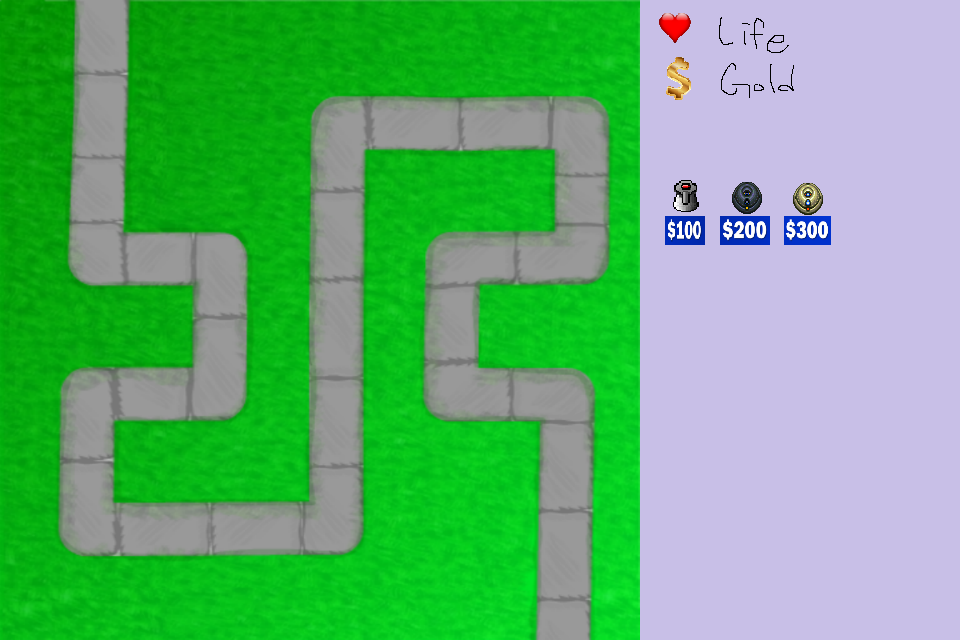
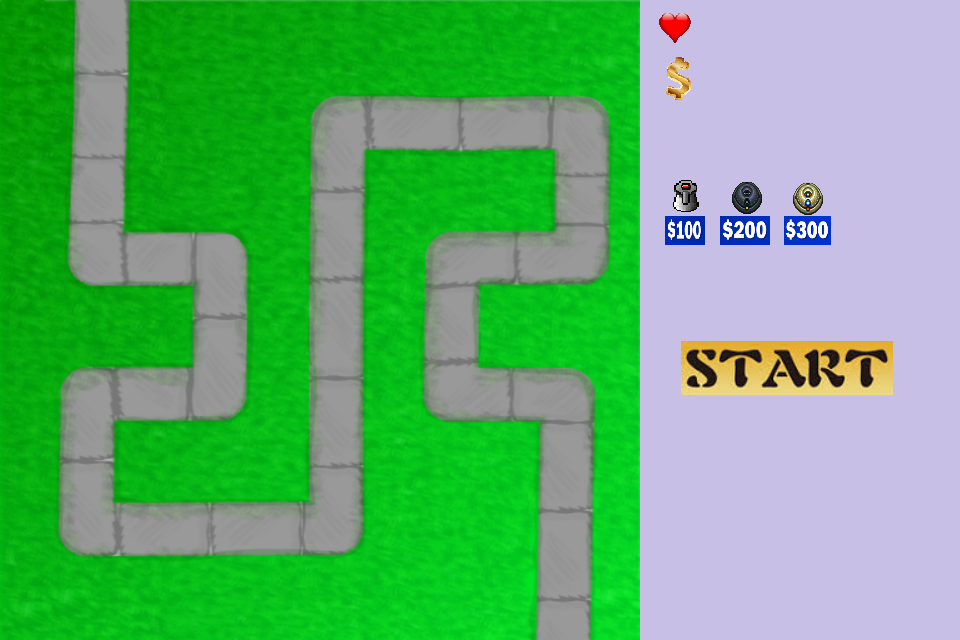
타워 23

Changed region(s): [[0.6875, 0.5312, 0.9375, 0.625], [0.75, 0.125, 0.7812, 0.1562]]

diff --git a/Drill/project/main_state.py b/Drill/project/main_state.py
@@ -10,7 +10,7 @@ import high_grade_pause_state
 
 name = "MainState"
 
-RUN_SPEED = 50
+RUN_SPEED = 150
 
 enemy1 = [None for i in range(0, 20)]
 enemy2 = [None for i in range(0, 20)]
@@ -25,6 +25,7 @@ tower2 = None
 tower3 = None
 font = None
 first_time = 0
+start_time = 0
 
 mouseFlag1 = [False for i in range(0, 30)]
 mouseNum1 = 0
@@ -65,10 +66,14 @@ class Grass:
     def __init__(self):
         self.image = load_image('Track2B.png')
         self.font = load_font('ENCR10B.TTF', 16)
+        self.hp = 100
+        self.gold = 100
 
     def draw(self):
         self.image.draw(480, 320)
-        self.font.draw(50, 550, '(Time: %3.2f)' % get_time(), (255, 255, 0))
+        #self.font.draw(440, 615, '(Time: %3.2f)' % get_time(), (255, 255, 0))
+        self.font.draw(700, 615, '%3.2f' % self.hp, (255, 0, 0))
+        self.font.draw(700, 560, '%3.2f' % self.gold, (255, 255, 0))
 
 
 class Enemy1:
@@ -573,8 +578,8 @@ class Bullet:
         self.frame = 0
         self.x = 0
         self.y = 0
-        self.enemy_x = [0 for i in range(5)]
-        self.enemy_y = [0 for i in range(5)]
+        self.enemy_x = [0 for i in range(20)]
+        self.enemy_y = [0 for i in range(20)]
         self.flag1 = 1
         self.dir = 0
         self.speed = 0
@@ -585,7 +590,7 @@ class Bullet:
         return self.x - 7, self.y - 7, self.x + 7, self.y + 7
 
     def setEnemyList(self, enemy1):
-        for i in range(0, 5):
+        for i in range(0, 20):
             self.enemy_x[i] = enemy1[i].x
             self.enemy_y[i] = enemy1[i].y
 
@@ -696,7 +701,7 @@ class Bullet:
             self.y = mouseYsave1[bulletNum1]
             self.flag1 = 0
 
-        self.speed = 48
+        self.speed = 96
 
         if self.cld1 == 0:
             self.dir = math.atan2(self.enemy_y[0] - self.y, self.enemy_x[0] - self.x)
@@ -731,60 +736,70 @@ class Bullet:
                 enemy1[0].x = -1000
                 enemy1[0].y = -1000
                 self.cld1 = 1
+                grass.gold += 10
             elif self.cld1 == 1:
                 self.x = mouseXsave1[0]
                 self.y = mouseYsave1[0]
                 enemy1[1].x = -1000
                 enemy1[1].y = -1000
                 self.cld1 = 2
+                grass.gold += 10
             elif self.cld1 == 2:
                 self.x = mouseXsave1[0]
                 self.y = mouseYsave1[0]
                 enemy1[2].x = -1000
                 enemy1[2].y = -1000
                 self.cld1 = 3
+                grass.gold += 10
             elif self.cld1 == 3:
                 self.x = mouseXsave1[0]
                 self.y = mouseYsave1[0]
                 enemy1[3].x = -1000
                 enemy1[3].y = -1000
                 self.cld1 = 4
+                grass.gold += 10
             elif self.cld1 == 4:
                 self.x = mouseXsave1[0]
                 self.y = mouseYsave1[0]
                 enemy1[4].x = -1000
                 enemy1[4].y = -1000
                 self.cld1 = 5
+                grass.gold += 10
             elif self.cld1 == 5:
                 self.x = mouseXsave1[0]
                 self.y = mouseYsave1[0]
                 enemy1[5].x = -1000
                 enemy1[5].y = -1000
                 self.cld1 = 6
+                grass.gold += 10
             elif self.cld1 == 6:
                 self.x = mouseXsave1[0]
                 self.y = mouseYsave1[0]
                 enemy1[6].x = -1000
                 enemy1[6].y = -1000
                 self.cld1 = 7
+                grass.gold += 10
             elif self.cld1 == 7:
                 self.x = mouseXsave1[0]
                 self.y = mouseYsave1[0]
                 enemy1[7].x = -1000
                 enemy1[7].y = -1000
                 self.cld1 = 8
+                grass.gold += 10
             elif self.cld1 == 8:
                 self.x = mouseXsave1[0]
                 self.y = mouseYsave1[0]
                 enemy1[8].x = -1000
                 enemy1[8].y = -1000
                 self.cld1 = 9
+                grass.gold += 10
             elif self.cld1 == 9:
                 self.x = mouseXsave1[0]
                 self.y = mouseYsave1[0]
                 enemy1[9].x = -1000
                 enemy1[9].y = -1000
                 self.cld1 = 10
+                grass.gold += 10
 
     def draw(self):
         draw_rectangle(*self.get_bb())
@@ -817,7 +832,9 @@ def handle_events():
     global mouseX, mouseY, mouseXsave1, mouseYsave1, mouseFlag1, mouseNum1
     global mouseXsave2, mouseYsave2, mouseFlag2, mouseNum2
     global mouseXsave3, mouseYsave3, mouseFlag3, mouseNum3
+    global start_time
     events = get_events()
+
     for event in events:
         if event.type == SDL_QUIT:
             game_framework.quit()
@@ -843,6 +860,11 @@ def handle_events():
                     if 175 <= event.y:
                         if event.y <= 245:
                             mouseFlag3[mouseNum3] = True
+            if 640 <= event.x:
+                if event.x <= 890:
+                    if 340 <= event.y:
+                        if event.y <= 395:
+                            start_time = get_time()
 
         elif event.type == SDL_MOUSEBUTTONUP:
             if mouseFlag1[mouseNum1]:
@@ -877,15 +899,17 @@ time = 0
 
 
 def update():
-    global time, first_time, bulletNum1
-    enemy1[0].update()
-    time = get_time() - first_time
-    print(time)
+    global time, first_time, bulletNum1, start_time
+    if start_time > 0:
+        time = get_time() - first_time - start_time
+    #print(time)
 
-    for i in range(5):
+    for i in range(10):
         if enemy1[i].collide():
             bullet.update()
 
+    if time > 0:
+        enemy1[0].update()
     if time >= 1:
         enemy1[1].update()
     if time >= 2:
@@ -895,15 +919,16 @@ def update():
     if time >= 4:
         enemy1[4].update()
     if time >= 5:
-        enemy2[0].update()
+        enemy1[5].update()
     if time >= 6:
-        enemy2[1].update()
+        enemy1[6].update()
     if time >= 7:
-        enemy2[2].update()
+        enemy1[7].update()
     if time >= 8:
-        enemy2[3].update()
+        enemy1[8].update()
     if time >= 9:
-        enemy2[4].update()
+        enemy1[9].update()
+
     if time >= 10:
         enemy3[0].update()
     if time >= 11:
@@ -926,7 +951,8 @@ def draw():
     clear_canvas()
     grass.draw()
 
-    enemy1[0].draw()
+    if time > 0:
+        enemy1[0].draw()
     if time >= 1:
         enemy1[1].draw()
     if time >= 2:
@@ -936,15 +962,16 @@ def draw():
     if time >= 4:
         enemy1[4].draw()
     if time >= 5:
-        enemy2[0].draw()
+        enemy1[5].draw()
     if time >= 6:
-        enemy2[1].draw()
+        enemy1[6].draw()
     if time >= 7:
-        enemy2[2].draw()
+        enemy1[7].draw()
     if time >= 8:
-        enemy2[3].draw()
+        enemy1[8].draw()
     if time >= 9:
-        enemy2[4].draw()
+        enemy1[9].draw()
+
     if time >= 10:
         enemy3[0].draw()
     if time >= 11:
@@ -961,7 +988,7 @@ def draw():
     tower2.draw()
     tower3.draw()
 
-    for i in range(5):
+    for i in range(10):
         if enemy1[i].collide():
             bullet.draw()
 
